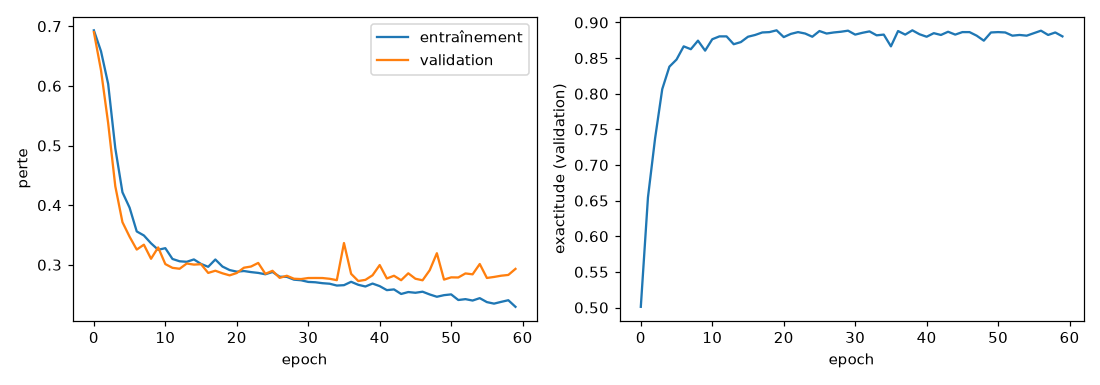
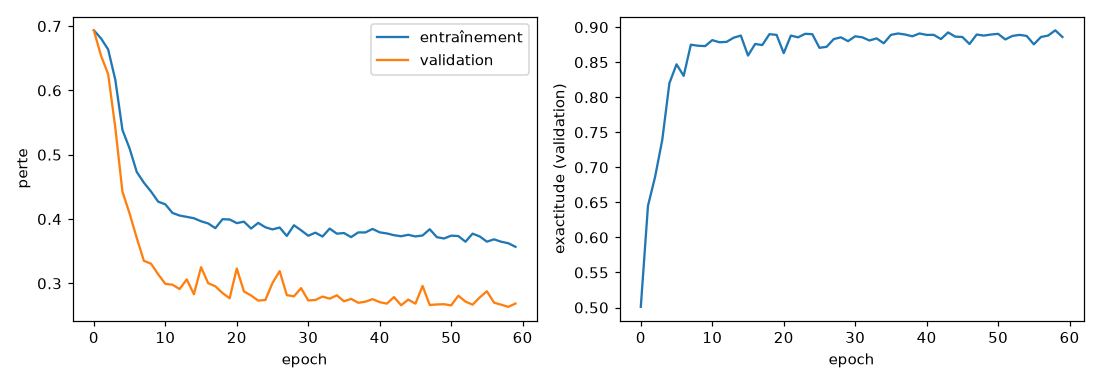
Étape 8 : élagage, réentraînement après élagage, quantification INT8 et latence par lots

diff --git a/07_quantification.py b/07_quantification.py
@@ -9,7 +9,7 @@ from onnxruntime.quantization import (quantize_static, CalibrationDataReader,
 from simulateur import jeux_standard
 from modele import CNN1D
 
-(Xtr, _), _, (Xte, yte) = jeux_standard()
+(Xtr, ytr), _, (Xte, yte) = jeux_standard()
 base = CNN1D()
 base.load_state_dict(torch.load("sorties/cnn_meilleur.pt"))
 base.eval()
@@ -30,6 +30,36 @@ for frac in [0.3, 0.5, 0.7, 0.9]:
             prune.l1_unstructured(mod, "weight", amount=frac)
     print(f"{int(frac * 100):>3d} % élagué   exactitude = {exactitude_torch(m):.3f}")
 print("(Attention : ça ne rend PAS le calcul plus rapide tel quel, les zéros sont quand même calculés.)\n")
+
+
+# ---------- 1 bis) Élagage puis réentraînement (étape 8, exercice 1) --------------
+# On élague, puis on réentraîne quelques epochs. Le masque d'élagage reste en place :
+# les poids supprimés restent à zéro, seuls les poids restants s'ajustent pour compenser.
+EPOCHS_REPRISE = 3
+device = torch.device("mps" if torch.backends.mps.is_available() else "cpu")
+Xtr_t = torch.from_numpy(Xtr).unsqueeze(1).to(device)
+ytr_t = torch.from_numpy(ytr).float().to(device)
+print(f"== Élagage puis réentraînement ({EPOCHS_REPRISE} epochs) ==")
+for frac in [0.5, 0.7, 0.9]:
+    torch.manual_seed(0)
+    m = copy.deepcopy(base)
+    for mod in m.modules():
+        if isinstance(mod, (torch.nn.Conv1d, torch.nn.Linear)):
+            prune.l1_unstructured(mod, "weight", amount=frac)
+    avant = exactitude_torch(m)
+    m.to(device).train()
+    opt = torch.optim.Adam(m.parameters(), lr=1e-3)
+    perte_bce = torch.nn.BCEWithLogitsLoss()
+    for _ in range(EPOCHS_REPRISE):
+        ordre = torch.randperm(len(Xtr_t), device=device)
+        for i in range(0, len(ordre), 64):
+            idx = ordre[i:i + 64]
+            opt.zero_grad()
+            perte_bce(m(Xtr_t[idx]), ytr_t[idx]).backward()
+            opt.step()
+    m.to("cpu").eval()
+    print(f"{int(frac * 100):>3d} % élagué   avant : {avant:.3f}   après réentraînement : {exactitude_torch(m):.3f}")
+print()
 
 
 # ---------- 2) Quantification INT8 avec ONNX Runtime -----------------------------
@@ -66,3 +96,24 @@ print(f"{'modèle':<10}{'exactitude':>12}{'latence (ms)':>15}{'taille (Ko)':>13}
 for nom, chemin in [("float32", "sorties/cnn.onnx"), ("int8", "sorties/cnn_int8.onnx")]:
     e, l, s = evaluer_onnx(chemin)
     print(f"{nom:<10}{e:>12.3f}{l:>15.3f}{s:>13.1f}")
+
+
+# ---------- 3) Latence selon la taille du lot (étape 8, exercice 2) -------------
+def latence_lot(chemin, taille, repetitions=200):
+    """Temps médian (ms) pour traiter un lot de `taille` signaux d'un coup."""
+    sess = ort.InferenceSession(chemin, providers=["CPUExecutionProvider"])
+    lot = Xte[:taille].reshape(taille, 1, 512)
+    for _ in range(20):                       # échauffement
+        sess.run(None, {"signal": lot})
+    t = []
+    for _ in range(repetitions):
+        t0 = time.perf_counter(); sess.run(None, {"signal": lot}); t.append(time.perf_counter() - t0)
+    return np.median(t) * 1000
+
+
+print("\n== Latence selon la taille du lot ==")
+print(f"{'modèle':<10}{'lot':>6}{'lot entier (ms)':>18}{'par signal (ms)':>18}")
+for nom, chemin in [("float32", "sorties/cnn.onnx"), ("int8", "sorties/cnn_int8.onnx")]:
+    for taille in [1, 16, 128]:
+        total = latence_lot(chemin, taille)
+        print(f"{nom:<10}{taille:>6}{total:>18.3f}{total / taille:>18.4f}")

diff --git a/reponses_exercices.md b/reponses_exercices.md
@@ -456,3 +456,74 @@ INVALID_ARGUMENT : Got invalid dimensions for input: signal for the following in
 L'index 2 est la troisième dimension de l'entrée (lot, canal, longueur), donc la longueur du signal : il a reçu 500 et attendait 512. À l'export, seul l'axe 0 (le nombre de signaux) a été déclaré variable avec `dynamic_axes` ; la longueur a été figée à 512.
 
 Le réseau lui-même pourrait traiter un signal d'une autre longueur, grâce aux convolutions et à la moyenne globale. C'est le fichier ONNX qui impose la contrainte, et c'est plutôt une bonne chose : le modèle a été entraîné sur des signaux de 512 points, avec une zone morte de 100 points et des échos placés à des positions précises. Un appareil qui enverrait des signaux d'une autre longueur, par exemple avec une autre fréquence d'échantillonnage, est rejeté avec une erreur claire au lieu de donner des prédictions fausses sans prévenir. En pratique, il faudrait adapter les signaux à 512 points dans le prétraitement, avec un rééchantillonnage qui respecte l'échelle de temps.
+
+## Étape 8 : l'optimisation (`07_quantification.py`)
+
+Résultats avec le modèle retenu (5 blocs, noyau 15, augmentation, 40 593 paramètres), comparés à ceux du guide (modèle de départ, 15 169 paramètres) :
+
+| Élagage (sans réentraînement) | Guide | Mon modèle |
+|---|---|---|
+| 0 % | 0,856 | 0,893 |
+| 30 % | 0,606 | 0,885 |
+| 50 % | 0,502 | 0,821 |
+| 70 % | 0,504 | 0,742 |
+| 90 % | 0,504 | 0,504 |
+
+| Quantification | Exactitude | Latence par signal | Taille |
+|---|---|---|---|
+| float32 | 0,893 | 0,053 ms | 162,2 Ko |
+| int8 | 0,892 | 0,028 ms | 55,7 Ko |
+
+Mon modèle supporte beaucoup mieux l'élagage que celui du guide : avec 30 % des poids mis à zéro, il ne perd que 0,8 point, alors que le modèle du guide tombe à 60 %. Avec 2,7 fois plus de paramètres, il a plus de redondance : plusieurs poids font en partie le même travail, et en supprimer une partie abîme moins le résultat. Au-delà de 50 %, il se dégrade quand même nettement, et à 90 % il répond au hasard. Comme le rappelle le script, ces zéros ne rendent pas le calcul plus rapide : ils sont quand même multipliés.
+
+La quantification INT8 est presque gratuite ici : 0,1 point d'exactitude perdu (contre 1 point dans le guide), un calcul 1,9 fois plus rapide et un fichier 2,9 fois plus petit. Le gain de taille est plus proche du facteur 4 théorique (32 bits contre 8) que dans le guide (2,2), parce que les poids représentent une plus grande part du fichier quand le modèle est plus gros ; le reste (échelles, structure du graphe) pèse relativement moins.
+
+Les deux avertissements `Please consider to run pre-processing before quantization` sont sans conséquence ici : ONNX Runtime propose une étape facultative qui prépare le graphe avant de le quantifier.
+
+### Exercice 2. Latence selon la taille du lot
+
+J'ai ajouté à la fin de `07_quantification.py` une mesure du temps de traitement d'un lot entier, en un seul appel, pour 1, 16 et 128 signaux (médiane sur 200 appels après un échauffement).
+
+| Modèle | Lot | Lot entier | Par signal |
+|---|---|---|---|
+| float32 | 1 | 0,064 ms | 0,064 ms |
+| float32 | 16 | 0,349 ms | 0,022 ms |
+| float32 | 128 | 2,537 ms | 0,020 ms |
+| int8 | 1 | 0,028 ms | 0,028 ms |
+| int8 | 16 | 0,276 ms | 0,017 ms |
+| int8 | 128 | 2,127 ms | 0,017 ms |
+
+Traiter les signaux par lots coûte beaucoup moins cher par signal : en float32, un signal revient à 0,064 ms seul et à 0,020 ms dans un lot de 128, trois fois moins. Chaque appel a un coût fixe (préparer le calcul, vérifier l'entrée) qui est partagé entre tous les signaux du lot, et le processeur calcule plus efficacement sur de gros blocs de données. Le gain se tasse vite : presque tout est acquis dès 16 signaux.
+
+L'avantage de l'int8 dépend aussi de la taille du lot. Il est 2,3 fois plus rapide pour un signal seul, mais seulement 1,3 fois pour 16 signaux et 1,2 fois pour 128. Pour un signal seul, le coût fixe domine, et le modèle int8 le réduit davantage ; dans un gros lot, c'est le calcul lui-même qui domine, et sur ce processeur l'int8 ne l'accélère que d'environ 20 %.
+
+Le bon réglage dépend de l'usage. Si l'appareil doit répondre à chaque mesure immédiatement, on travaille signal par signal et l'int8 divise le temps par deux. Si on analyse un balayage complet après coup, on regroupe les signaux et l'int8 apporte surtout un modèle trois fois plus petit. Dans les deux cas, les temps (quelques centièmes de milliseconde par signal) sont largement suffisants sur ce processeur ; sur un petit processeur embarqué, ils seraient bien plus grands, et c'est là que l'int8 compterait vraiment.
+
+Le temps d'un signal seul en float32 était de 0,054 ms au début du script et de 0,064 ms ici : les mesures de latence varient d'une exécution à l'autre, d'où l'intérêt de regarder des ordres de grandeur et des rapports plutôt que la troisième décimale.
+
+### Exercice 3. Statique ou dynamique, après ou pendant l'entraînement
+
+1. Les poids sont toujours quantifiés à l'avance ; la différence porte sur les activations, les valeurs qui circulent entre les couches pendant le calcul.
+2. En quantification statique (celle du script), on fait passer des signaux de calibration (la classe `Calibration`, 200 signaux) pour fixer une fois pour toutes l'échelle de chaque activation : le calcul est ensuite rapide, mais tout dépend de la représentativité de ces signaux.
+3. En quantification dynamique, l'échelle des activations est recalculée à chaque passage : souvent un peu plus précis, mais plus lent ; ONNX Runtime la conseille plutôt pour les RNN et les transformers, et la statique pour les CNN comme le mien.
+4. La quantification après l'entraînement (statique ou dynamique) convertit un modèle déjà entraîné, sans le toucher : c'est simple et rapide, mais le modèle n'a jamais appris à vivre avec ces arrondis.
+5. La quantification pendant l'entraînement (QAT) simule les arrondis 8 bits dès l'entraînement pour que les poids s'y adaptent : plus coûteuse, elle sert quand la quantification après coup perd trop de précision, ce qui n'est pas mon cas (0,1 point perdu).
+
+Source : documentation d'ONNX Runtime, « Quantize ONNX Models » (https://onnxruntime.ai/docs/performance/model-optimizations/quantization.html).
+
+### Exercice 1. Réentraîner après élagage
+
+J'ai ajouté à `07_quantification.py` une section qui élague le modèle puis le réentraîne 3 epochs (Adam, LR 1e-3, lots de 64). Le masque d'élagage reste en place : les poids supprimés restent à zéro, seuls les poids restants s'ajustent.
+
+| Poids supprimés | Avant réentraînement | Après 3 epochs |
+|---|---|---|
+| 0 % (référence) | 0,893 | |
+| 50 % | 0,821 | 0,894 |
+| 70 % | 0,742 | 0,891 |
+| 90 % | 0,504 | 0,794 |
+
+Oui, on récupère la performance, et très vite. À 50 % et 70 %, trois epochs suffisent pour revenir au niveau du modèle complet : la moitié, voire les trois quarts des poids étaient en trop pour ce problème. À 90 %, il ne reste qu'environ 4 000 poids ; le modèle repart du hasard et remonte à 79 %, sans rattraper le modèle complet en 3 epochs. C'est cohérent avec l'étape 4, où le petit modèle `(4, 8, 16, 16)`, avec 3 841 paramètres, atteignait 84 % mais en 60 epochs.
+
+L'élagage seul abîme le modèle parce qu'il supprime des poids sans que les autres aient l'occasion de compenser. Le réentraînement donne cette occasion. Ces poids à zéro ne rendent toujours pas le calcul plus rapide, mais un modèle élagué à 70 % puis réentraîné pourrait être compressé efficacement, ou combiné à de l'élagage structuré (retirer des filtres entiers) pour vraiment gagner en vitesse.
+
+Le réentraînement s'est fait sans augmentation de données, et les modèles réentraînés ne sont pas sauvegardés : c'est une expérience, pas un changement du modèle de référence.

diff --git a/journal.md b/journal.md
@@ -265,6 +265,8 @@ La puce graphique est 15 fois plus rapide. Je m'attendais à moins, parce que le
 
 Les résultats ne sont pas identiques aux décimales près, alors que la graine est la même. Le mélange des données est tiré par un générateur différent sur la puce graphique, et les calculs en virgule flottante n'y sont pas faits exactement dans le même ordre. Les deux entraînements arrivent au même niveau, autour de 85 à 86 % d'exactitude, ce qui est ce qui compte.
 
+Plus tard, en relançant exactement le même entraînement sur MPS (modèle retenu, augmentation, sans entraînement adverse), j'ai obtenu un fichier `cnn_meilleur.pt` identique octet pour octet au précédent. Avec la même graine et la même machine, l'entraînement est donc reproductible ; c'est en changeant de matériel (CPU contre puce graphique) que les chiffres bougent.
+
 Ensuite, j'ai gardé un seul script. Deux fichiers presque identiques auraient fini par diverger pendant les exercices. `03_train_cnn.py` choisit maintenant le device tout seul : la puce graphique si elle existe, sinon le processeur, donc il marche aussi sur une machine sans puce Apple. Il sauvegarde toujours dans `sorties/cnn_meilleur.pt`, avec les poids ramenés sur CPU, pour que les scripts 04 à 08 le retrouvent sans changement.
 
 Au passage, j'ai découvert un piège : ajouter seulement la ligne `device = torch.device(...)` ne change rien. Elle choisit le device mais n'y déplace rien. Tant que le modèle et les données ne sont pas envoyés avec `.to(device)`, tout tourne sur le processeur, sans erreur ni avertissement. Et si on ne déplace que l'un des deux, PyTorch s'arrête avec une erreur, parce que le modèle et les données doivent être sur le même device.
@@ -413,6 +415,18 @@ Les défenses les plus utiles ne sont pas forcément dans le modèle : signer le
 ONNX est un format d'échange : un fichier qui décrit les couches et les poids du réseau indépendamment de PyTorch, que d'autres programmes et d'autres langages savent lire. ONNX Runtime est un moteur rapide qui exécute ce fichier. Le script vérifie que PyTorch et ONNX Runtime donnent les mêmes sorties : un export peut réussir sans erreur et quand même produire des résultats différents.
 
 Le fichier ONNX fige aussi la forme des entrées. Seul le nombre de signaux par lot est variable ; un signal de 500 points est refusé, alors que le réseau saurait techniquement le traiter. Je trouve ce refus utile : une entrée qui ne ressemble pas aux données d'entraînement doit déclencher une erreur, pas une prédiction silencieusement fausse.
+
+### Élagage et quantification : précision, vitesse, taille
+
+L'élagage met à zéro les poids les plus petits. La quantification stocke chaque poids sur 8 bits (un entier avec un facteur d'échelle) au lieu de 32 bits à virgule. Le guide insiste sur une règle : toujours mesurer le triplet précision, vitesse, taille, jamais un seul des trois.
+
+Avec mon modèle, la quantification est presque gratuite : 0,1 point d'exactitude en moins, deux fois plus rapide, trois fois plus petit (56 Ko). C'est ce qui permettrait de le faire tourner sur un petit processeur dans un appareil d'inspection.
+
+L'élagage m'a surpris : mon modèle garde 88,5 % avec 30 % des poids supprimés, là où celui du guide s'effondre à 60 %. Un réseau plus gros a plus de redondance, donc il supporte mieux qu'on lui retire des poids. Ça donne un autre éclairage à mon choix de 5 blocs : les paramètres en plus n'apportaient presque rien en exactitude, mais ils rendent le modèle plus tolérant à la compression.
+
+### Latence ou débit : traiter les signaux un par un ou par lots
+
+En mesurant la latence par lots de 1, 16 et 128 signaux, j'ai vu que regrouper les signaux divise le temps par signal par trois. Chaque appel au modèle a un coût fixe, partagé entre tous les signaux du lot. Il faut donc distinguer deux besoins : la latence (le temps pour obtenir une réponse sur un signal précis, important si l'appareil doit réagir tout de suite) et le débit (le nombre de signaux traités par seconde, important pour analyser un balayage complet). On n'optimise pas de la même façon pour l'un et pour l'autre, et l'avantage de la quantification n'est pas le même : deux fois plus rapide pour un signal seul, seulement 20 % de mieux sur un gros lot.
 
 ### Questions encore ouvertes
 
